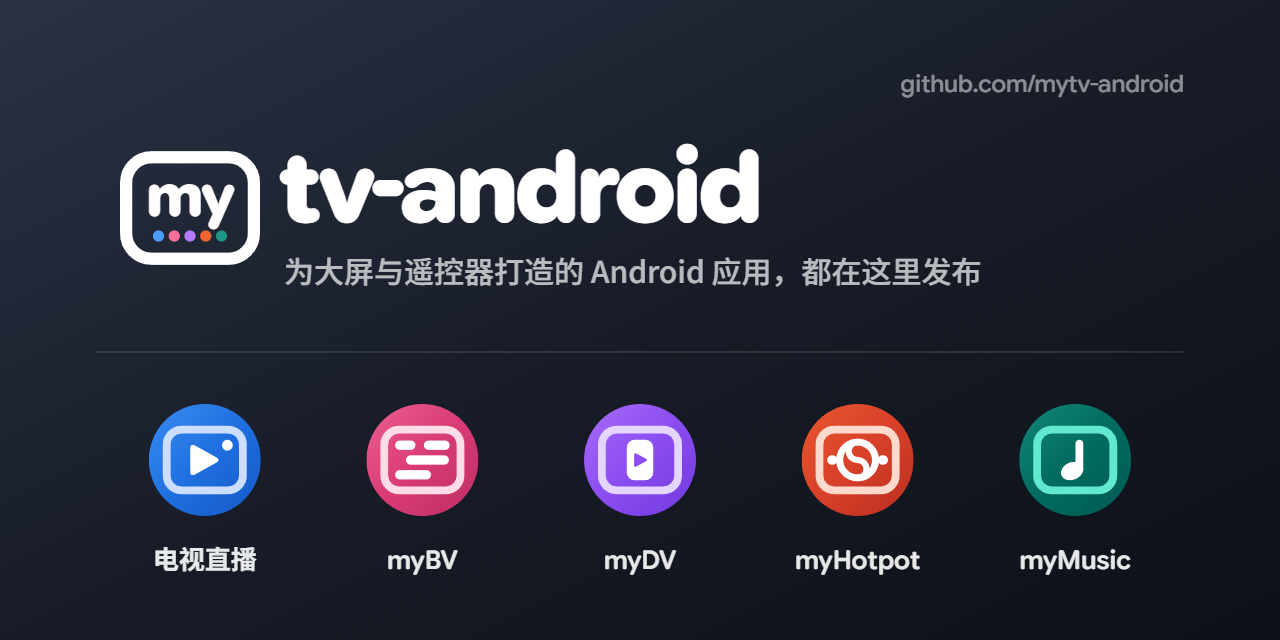
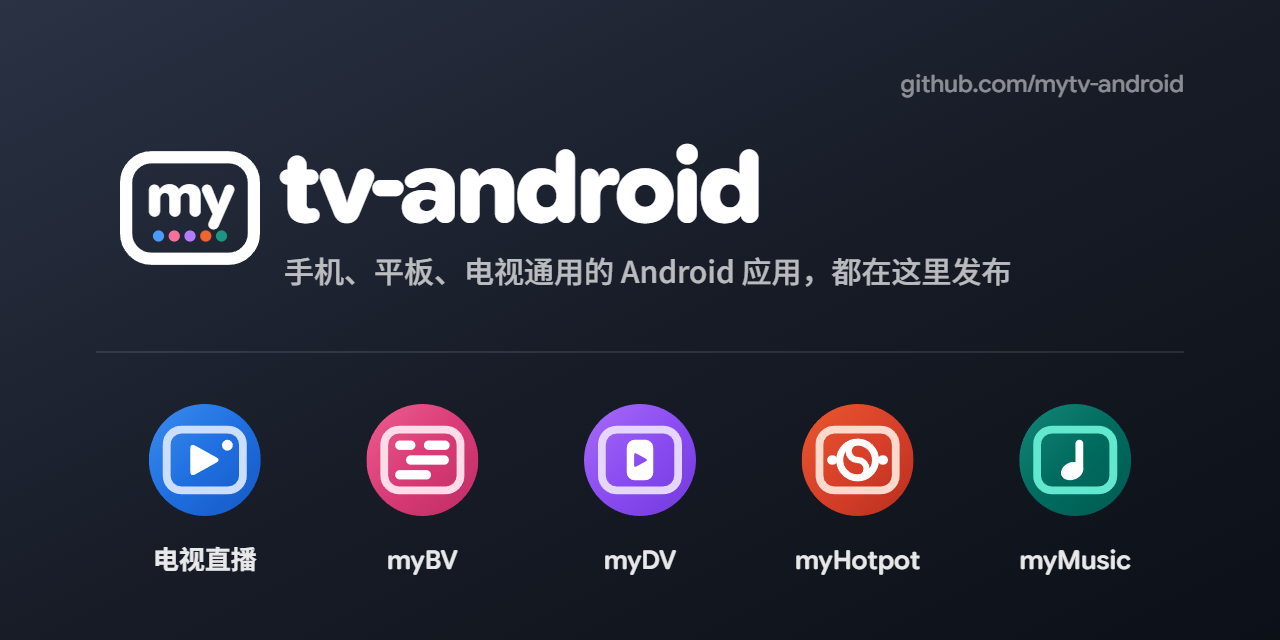
组织简介：所有应用都支持手机、平板与 TV，去掉平台列并改正横幅标语和简介

Changed region(s): [[0.2188, 0.4062, 0.8125, 0.4688]]

diff --git a/profile/README.md b/profile/README.md
@@ -2,10 +2,12 @@
   <img src="https://raw.githubusercontent.com/mytv-android/.github/main/profile/banner.png" alt="mytv-android" width="100%">
 </p>
 
-| | 应用 | 简介 | 平台 | 下载 |
-|:-:|---|---|---|---|
-| <img src="https://raw.githubusercontent.com/mytv-android/.github/main/profile/icons/mytv_icon_512.png" width="48"> | [**电视直播**](https://github.com/mytv-android/mytv-android) | 电视直播：频道直播、节目单、回看 | TV（主） | [Releases](https://github.com/mytv-android/mytv-android/releases/latest) |
-| <img src="https://raw.githubusercontent.com/mytv-android/.github/main/profile/icons/mybv_icon_512.png" width="48"> | [**myBV**](https://github.com/mytv-android/myBV) | BV 的后续维护版，手机与电视通用 | 手机 + TV | [Releases](https://github.com/mytv-android/myBV/releases/latest) |
-| <img src="https://raw.githubusercontent.com/mytv-android/.github/main/profile/icons/mydv_icon_512.png" width="48"> | [**myDV**](https://github.com/mytv-android/myDV) | 竖屏短视频的电视客户端 | TV | [Releases](https://github.com/mytv-android/myDV/releases/latest) |
-| <img src="https://raw.githubusercontent.com/mytv-android/.github/main/profile/icons/myhotpot_icon_512.png" width="48"> | [**myHotpot**](https://github.com/mytv-android/myHotpot) | 短剧爱好者的电视火锅 | TV | [Releases](https://github.com/mytv-android/myHotpot/releases/latest) |
-| <img src="https://raw.githubusercontent.com/mytv-android/.github/main/profile/icons/mymusic_icon_512.png" width="48"> | [**myMusic**](https://github.com/mytv-android/myMusic) | 手机、平板、电视通用的音乐客户端 | 手机 + 平板 + TV | [Releases](https://github.com/mytv-android/myMusic/releases/latest) |
+<p align="center">所有应用都支持手机、平板与 Android TV。</p>
+
+| | 应用 | 简介 | 下载 |
+|:-:|---|---|---|
+| <img src="https://raw.githubusercontent.com/mytv-android/.github/main/profile/icons/mytv_icon_512.png" width="48"> | [**电视直播**](https://github.com/mytv-android/mytv-android) | 电视直播：频道直播、节目单、回看 | [Releases](https://github.com/mytv-android/mytv-android/releases/latest) |
+| <img src="https://raw.githubusercontent.com/mytv-android/.github/main/profile/icons/mybv_icon_512.png" width="48"> | [**myBV**](https://github.com/mytv-android/myBV) | BV 的后续维护版，哔哩哔哩第三方客户端 | [Releases](https://github.com/mytv-android/myBV/releases/latest) |
+| <img src="https://raw.githubusercontent.com/mytv-android/.github/main/profile/icons/mydv_icon_512.png" width="48"> | [**myDV**](https://github.com/mytv-android/myDV) | 竖屏短视频客户端 | [Releases](https://github.com/mytv-android/myDV/releases/latest) |
+| <img src="https://raw.githubusercontent.com/mytv-android/.github/main/profile/icons/myhotpot_icon_512.png" width="48"> | [**myHotpot**](https://github.com/mytv-android/myHotpot) | 短剧播放器，追剧一锅涮 | [Releases](https://github.com/mytv-android/myHotpot/releases/latest) |
+| <img src="https://raw.githubusercontent.com/mytv-android/.github/main/profile/icons/mymusic_icon_512.png" width="48"> | [**myMusic**](https://github.com/mytv-android/myMusic) | 音乐客户端：搜索、歌单、歌词 | [Releases](https://github.com/mytv-android/myMusic/releases/latest) |
